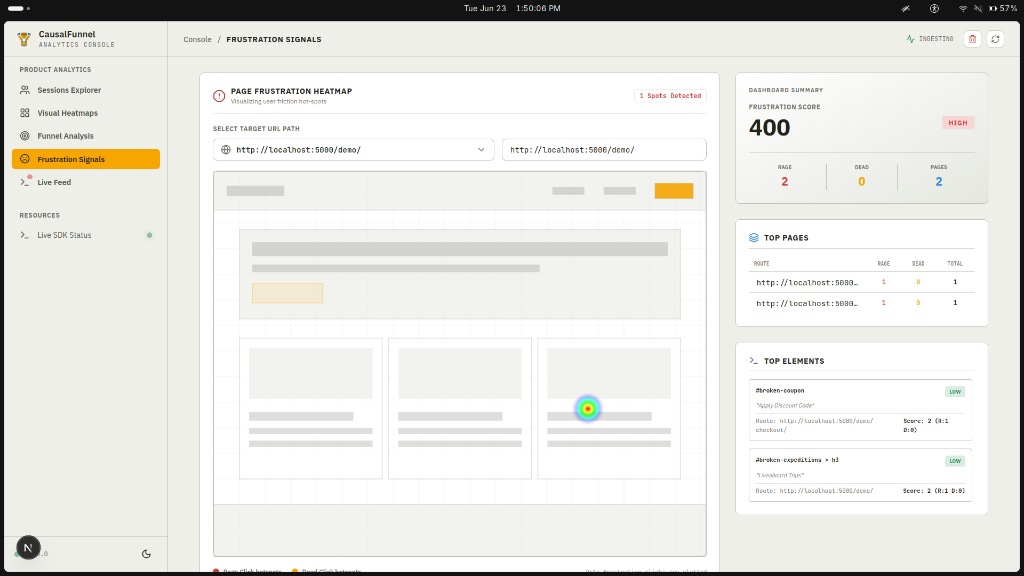
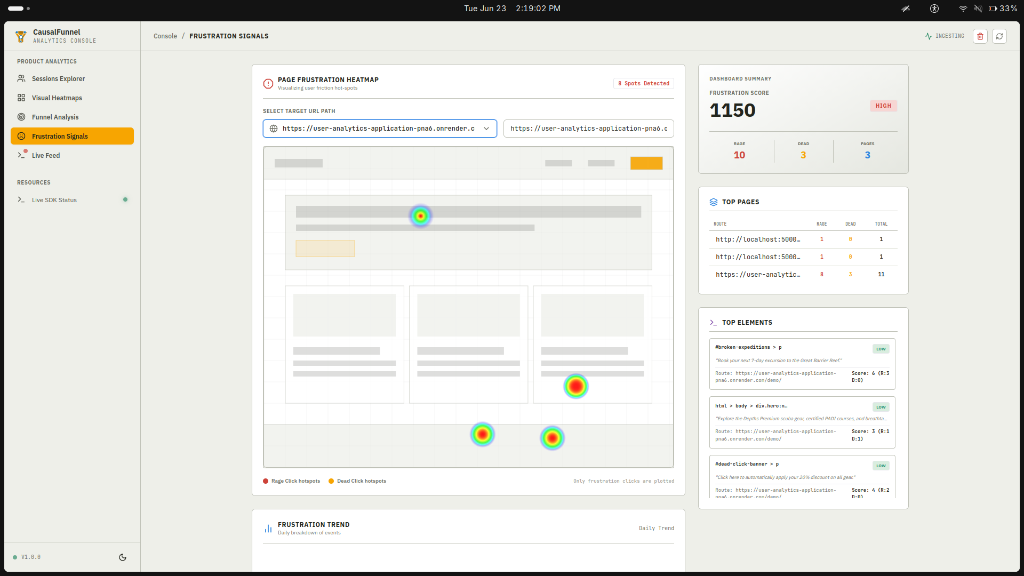
feat: update event timestamp schema and refresh dashboard documentation and links

diff --git a/packages/shared/src/types/event.ts b/packages/shared/src/types/event.ts
@@ -13,7 +13,7 @@ export enum EventType {
  */
 export const BaseEventSchema = z.object({
   sessionId: z.string().min(1, 'Session ID is required'),
-  timestamp: z.string().datetime().nonnegative('Timestamp must be a positive integer'),
+  timestamp: z.union([z.string().datetime(), z.number().int().nonnegative()]),
   pageUrl: z.string().min(1, 'Page URL is required'),
   userAgent: z.string().min(1, 'User Agent is required'),
 });

diff --git a/README.md b/README.md
@@ -17,12 +17,11 @@ A production-grade, miniature behavioral analytics platform capable of capturing
 - **Live Event Telemetry:** Server-Sent Events (SSE) streaming real-time interactions to the dashboard with zero polling.
 
 <div align="center">
-  <!-- Placeholder: Hero Dashboard Screenshot -->
-  <i>[Placeholder: Dashboard Overview Screenshot]</i>
+  <img src="docs/session.png" alt="CausalFunnel Analytics Dashboard" width="800"/>
 </div>
 
 ### Hosted Links
-* **Dashboard URL:** [https://user-analytics-casualfunnel.vercel.app](https://user-analytics-casualfunnel.vercel.app)
+* **Dashboard URL:** [https://user-analytics-causalfunnel.vercel.app](https://user-analytics-causalfunnel.vercel.app)
 * **Backend API URL:** [https://user-analytics-application-pna6.onrender.com](https://user-analytics-application-pna6.onrender.com)
 * **Demo Store URL:** [https://user-analytics-application-pna6.onrender.com/demo](https://user-analytics-application-pna6.onrender.com/demo)
 * **Repository URL:** [https://github.com/urvagandhi/User-Analytics-Application](https://github.com/urvagandhi/User-Analytics-Application)
@@ -273,7 +272,7 @@ Services:
 
 ## Hosted Demo
 
-- **Dashboard**: [https://user-analytics-casualfunnel.vercel.app](https://user-analytics-casualfunnel.vercel.app)
+- **Dashboard**: [https://user-analytics-causalfunnel.vercel.app](https://user-analytics-causalfunnel.vercel.app)
 - **Backend API**: [https://user-analytics-application-pna6.onrender.com](https://user-analytics-application-pna6.onrender.com)
 - **Demo Store**: [https://user-analytics-application-pna6.onrender.com/demo](https://user-analytics-application-pna6.onrender.com/demo)
 
@@ -434,14 +433,13 @@ sequenceDiagram
 *(Displays specific DOM elements causing Rage & Dead Clicks)*
 ![Frustration Intelligence](docs/frustration.png)
 
-### 3. Session Timeline
-`[Placeholder: Session Timeline Screenshot]`
+### 3. Session Explorer & Timeline
+*(Displays a complete chronological user journey)*
+![Session Timeline](docs/session.png)
 
-### 4. Funnels Analysis
-`[Placeholder: Funnels Screenshot]`
-
-### 5. Live Event Feed
-`[Placeholder: Live Feed Screenshot]`
+### 4. Live Event Feed
+*(Monitors real-time incoming events via SSE)*
+![Live Feed](docs/live.png)
 
 </details>
 